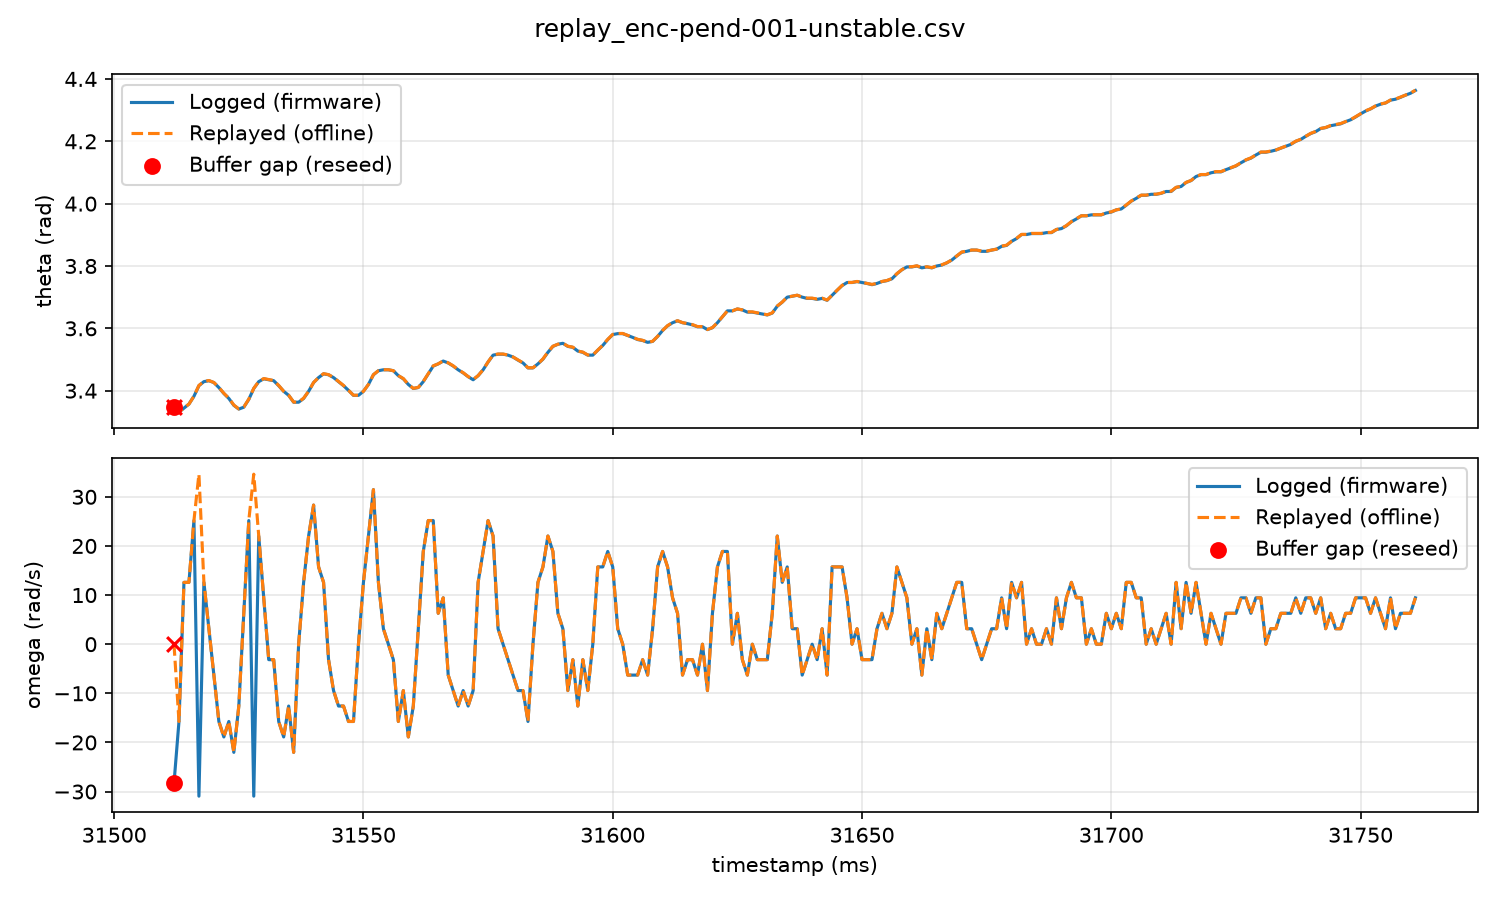
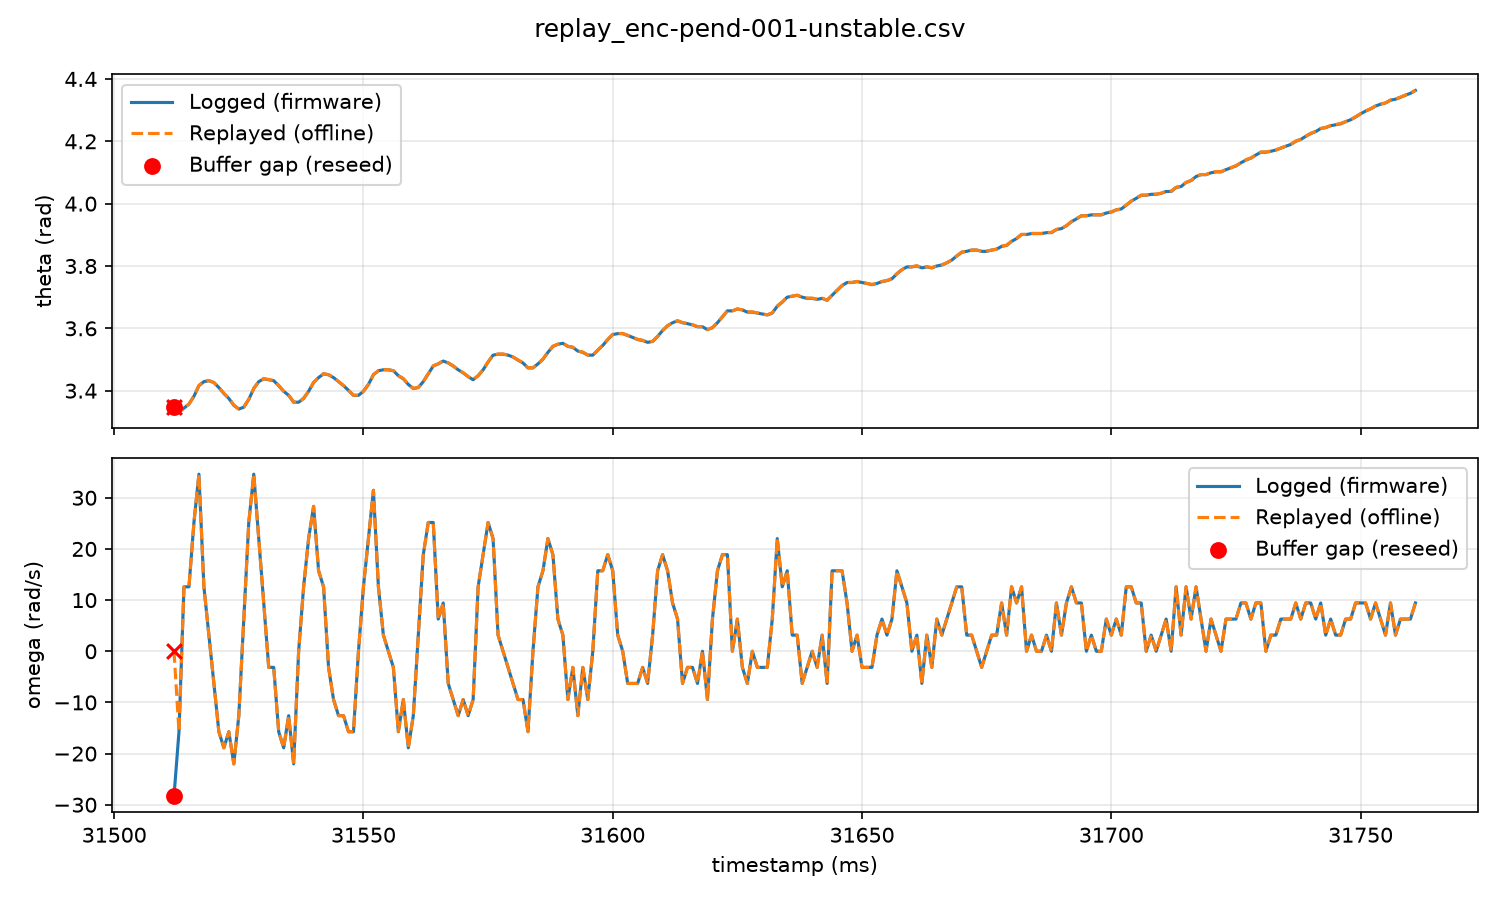
bugfix on more int16_t overflow

diff --git a/Source/test_encoder/test_encoder_unwrap.cpp b/Source/test_encoder/test_encoder_unwrap.cpp
@@ -12,7 +12,7 @@ struct TelemetryRow {
     int16_t dcount_signed;
     int16_t count_unwrapped;
     int16_t theta_unwrapped_e3;
-    int16_t omega_e3;
+    int32_t omega_e3;
 };
 
 struct ReplayRow {
@@ -52,7 +52,7 @@ static std::vector<TelemetryRow> load_csv(const std::string& path) {
         std::getline(ss, token, ','); r.dcount_signed = (int16_t)std::stoi(token);
         std::getline(ss, token, ','); r.count_unwrapped = (int16_t)std::stoi(token);
         std::getline(ss, token, ','); r.theta_unwrapped_e3 = (int16_t)std::stoi(token);
-        std::getline(ss, token, ','); r.omega_e3 = (int16_t)std::stoi(token);
+        std::getline(ss, token, ','); r.omega_e3 = (int32_t)std::stoi(token);
 
         rows.push_back(r);
     }
@@ -153,9 +153,9 @@ static std::vector<ReplayRow> replay_and_verify(const std::vector<TelemetryRow>&
                                     * (2.0f * PI / counts_per_rev) * 1000.0f);
         bool theta_torn = (abs(expected_theta_e3 - row.theta_unwrapped_e3) > 1);
 
-        int16_t expected_omega_e3 = 0;
+        int32_t expected_omega_e3 = 0;
         if (dt_ms > 0) {
-            expected_omega_e3 = (int16_t)(row.dcount_signed
+            expected_omega_e3 = (int32_t)(row.dcount_signed
                                 * (2.0f * PI / counts_per_rev)
                                 / (dt_ms / 1000.0f) * 1000.0f);
         }
